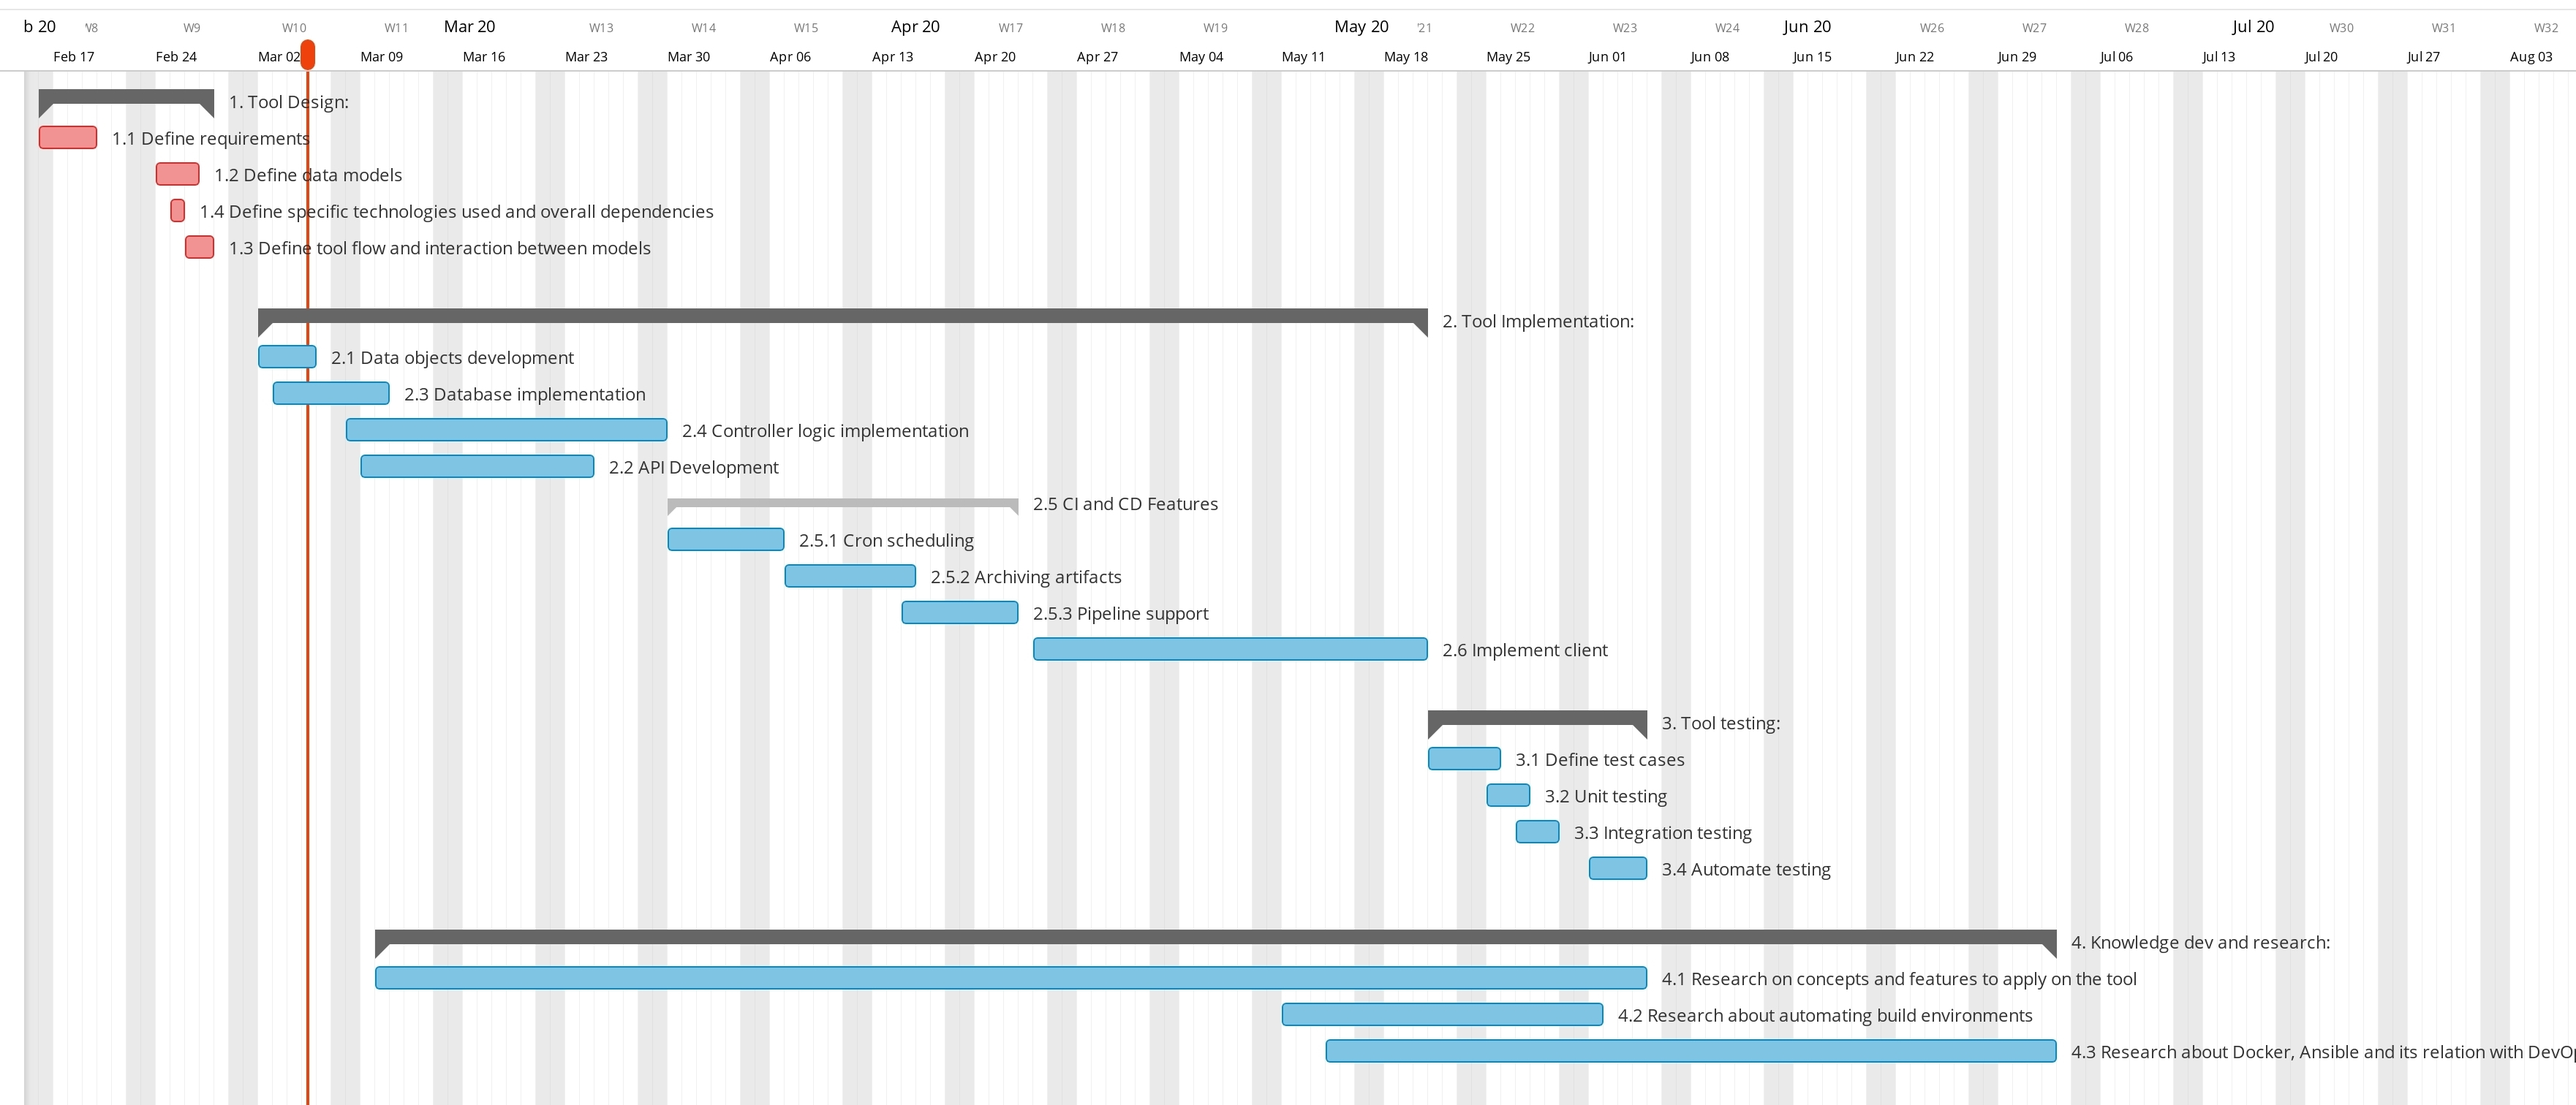
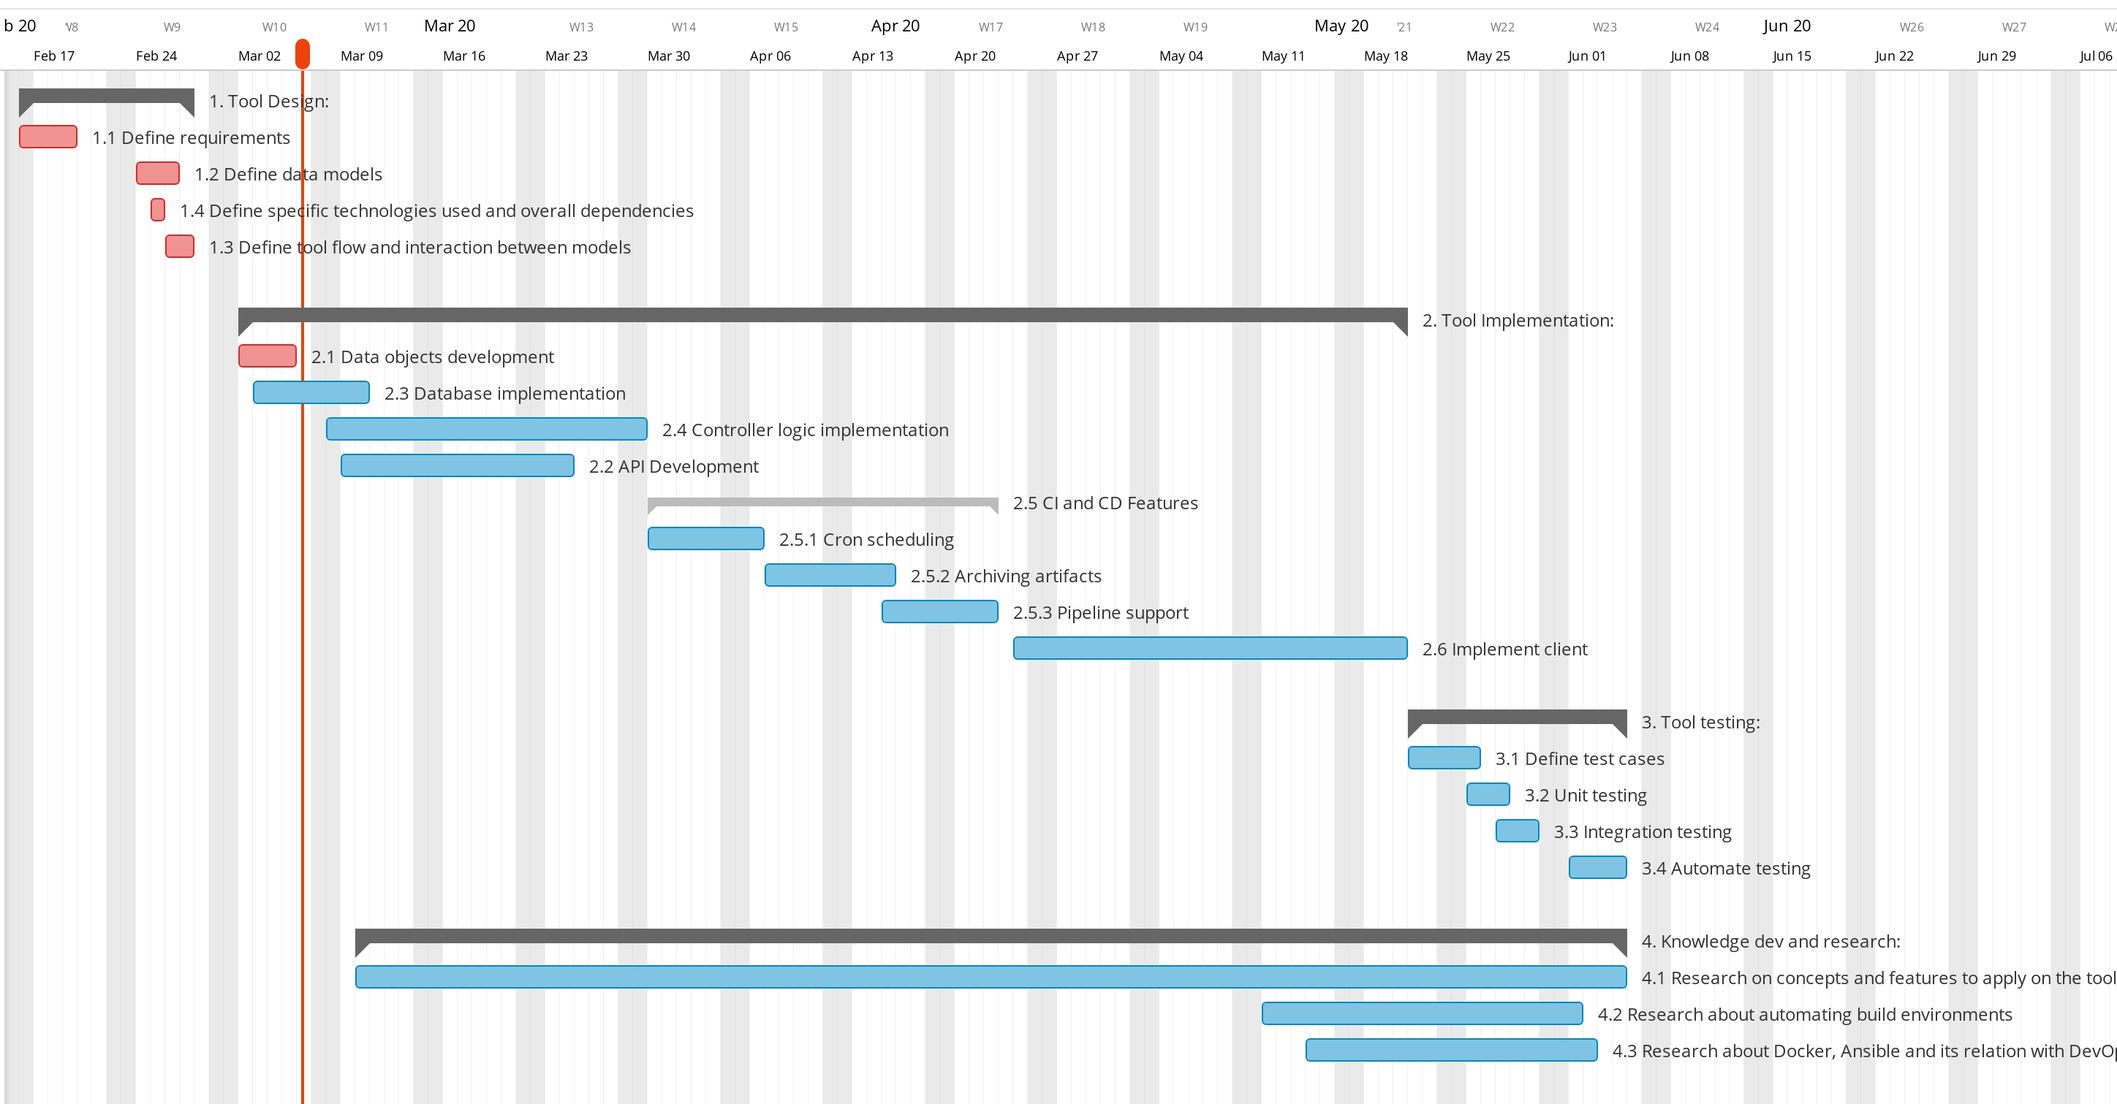
Corrected error in date

diff --git a/proj_proposal/project_proposal_work_plan.tex b/proj_proposal/project_proposal_work_plan.tex
@@ -208,13 +208,13 @@ Project specifications:
 	\textbf{WP Name:} Research about Docker, Ansible and its relation with DevOps& \textbf{WP ref: 4.3} \\ \hline
 	\textbf{Major constituent:} Knowledge development and research & - \\ \hline
 	\multirow{2}{*}{\begin{tabular}[c]{@{}l@{}}\textbf{Short description:} Research and write ways in\\which these technologies can be used and applied. \end{tabular}} & \textbf{Planned start date:} 14/May/2020\\ \cline{2-2} 
-	&  \textbf{Planned end date:} 02/Jul/2020\\ \hline
+	&  \textbf{Planned end date:} 02/Jun/2020\\ \hline
 \end{tabularx}
 
 \subsection{Time Plan (Gantt diagram)}
 
 \begin{figure}[h]
-	\includegraphics[scale=0.12]{gantt}
+	\includegraphics[scale=0.15]{gantt}
 \end{figure}
 \newpage
 \section{Generic skills}
